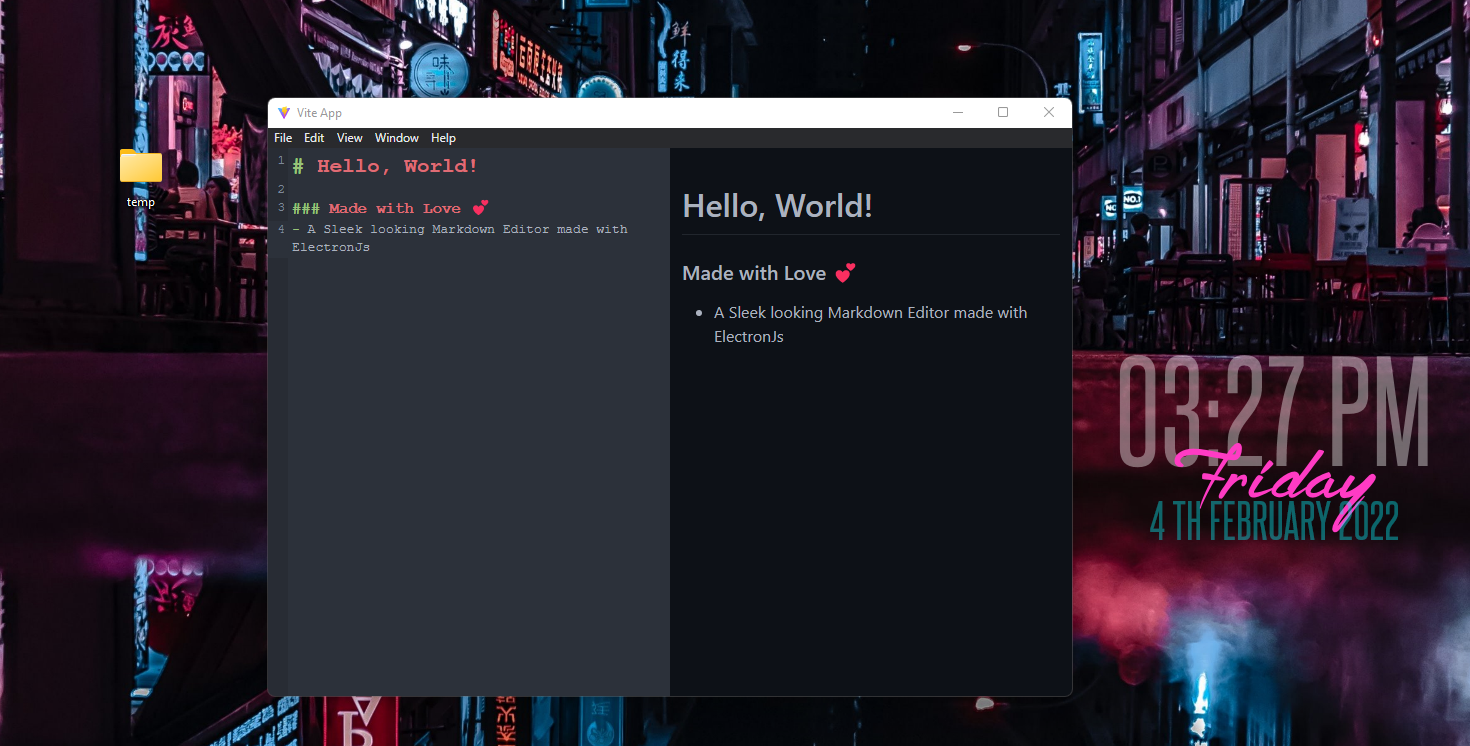
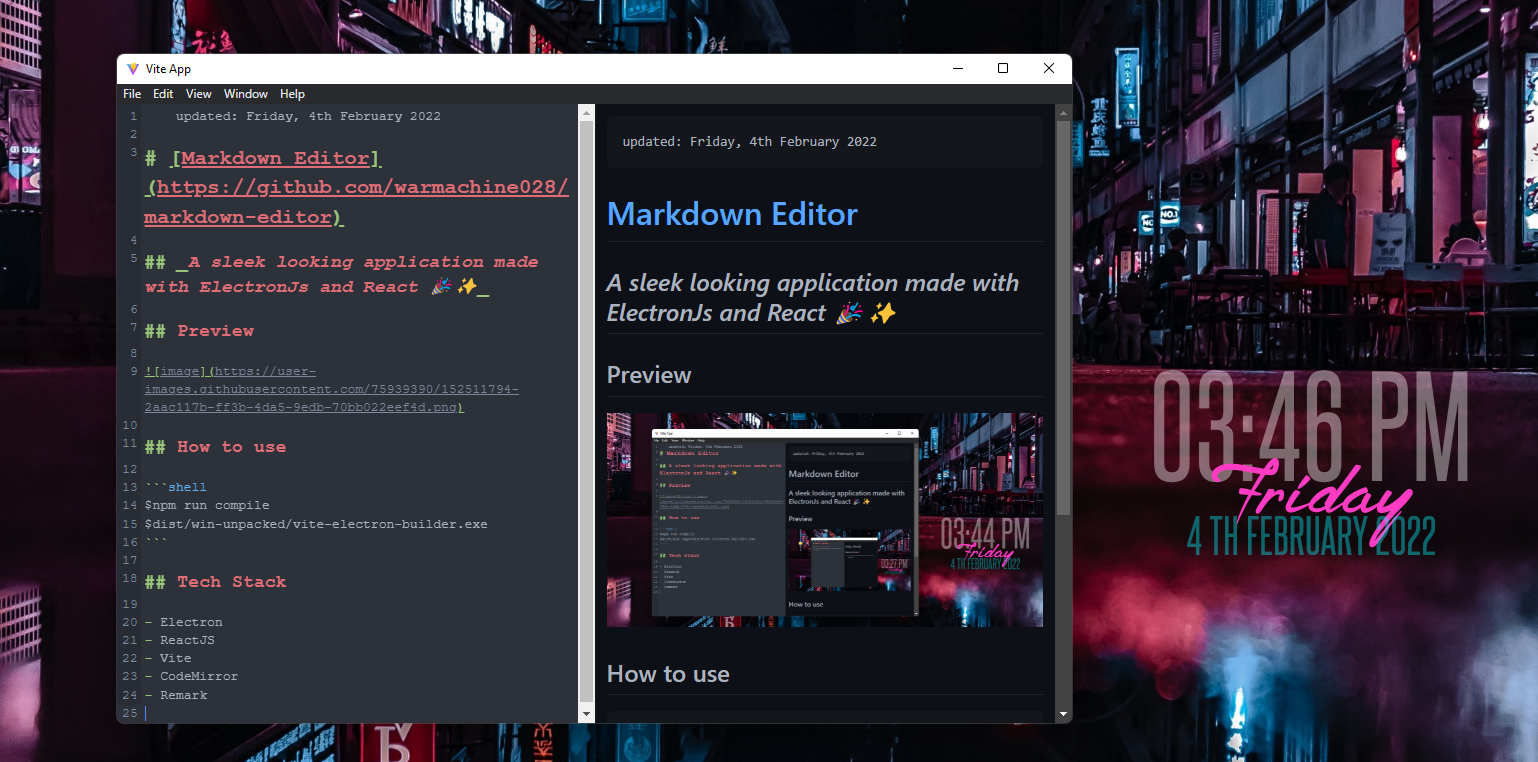
App Completed

diff --git a/README.md b/README.md
@@ -1,4 +1,24 @@
-# Markdown Editor
-## A sleek looking application made with ElectronJs and React 🎉✨
+    updated: Friday, 4th February 2022
 
-![image](assets/preview.png)
+# [Markdown Editor](https://github.com/warmachine028/markdown-editor)
+
+## _A sleek looking application made with ElectronJs and React 🎉✨_
+
+## Preview
+
+![image](https://user-images.githubusercontent.com/75939390/152511983-cc077006-67a9-4f02-9f6f-521a21c8ba74.png)
+
+## How to use
+
+```shell
+$npm run compile
+$dist/win-unpacked/vite-electron-builder.exe
+```
+
+## Tech Stack
+
+- Electron
+- ReactJS
+- Vite
+- CodeMirror
+- Remark
